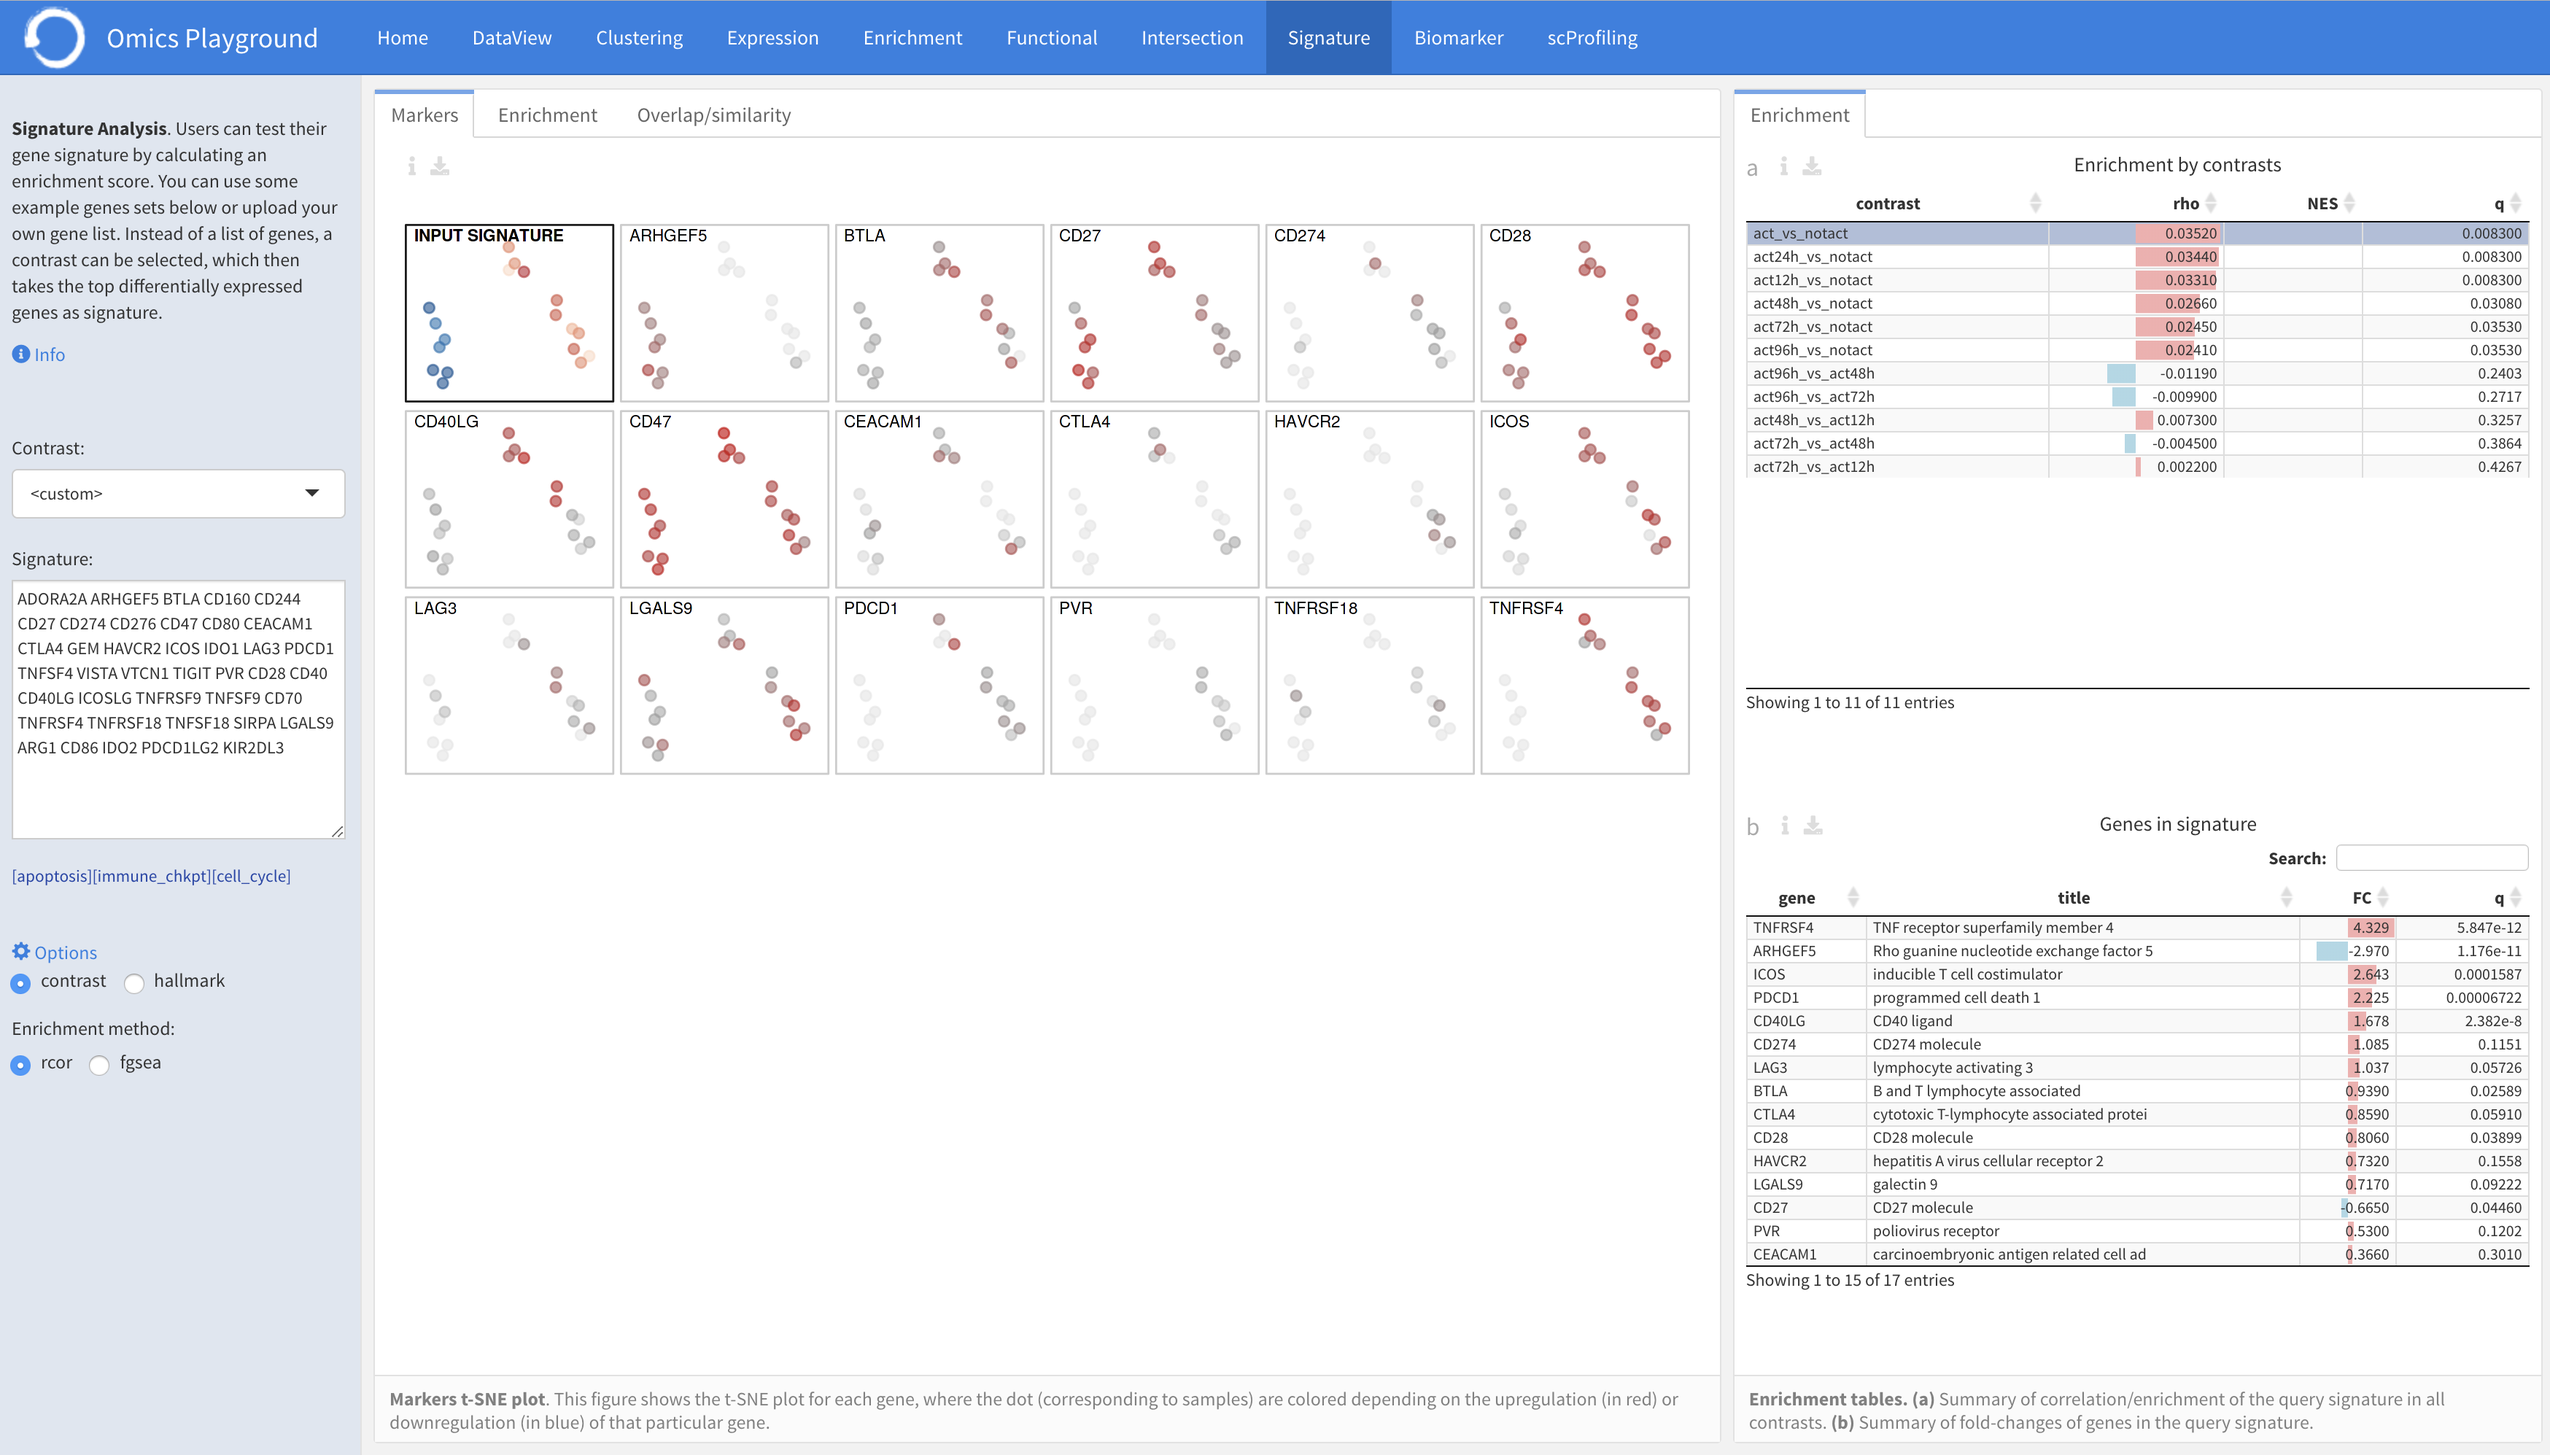
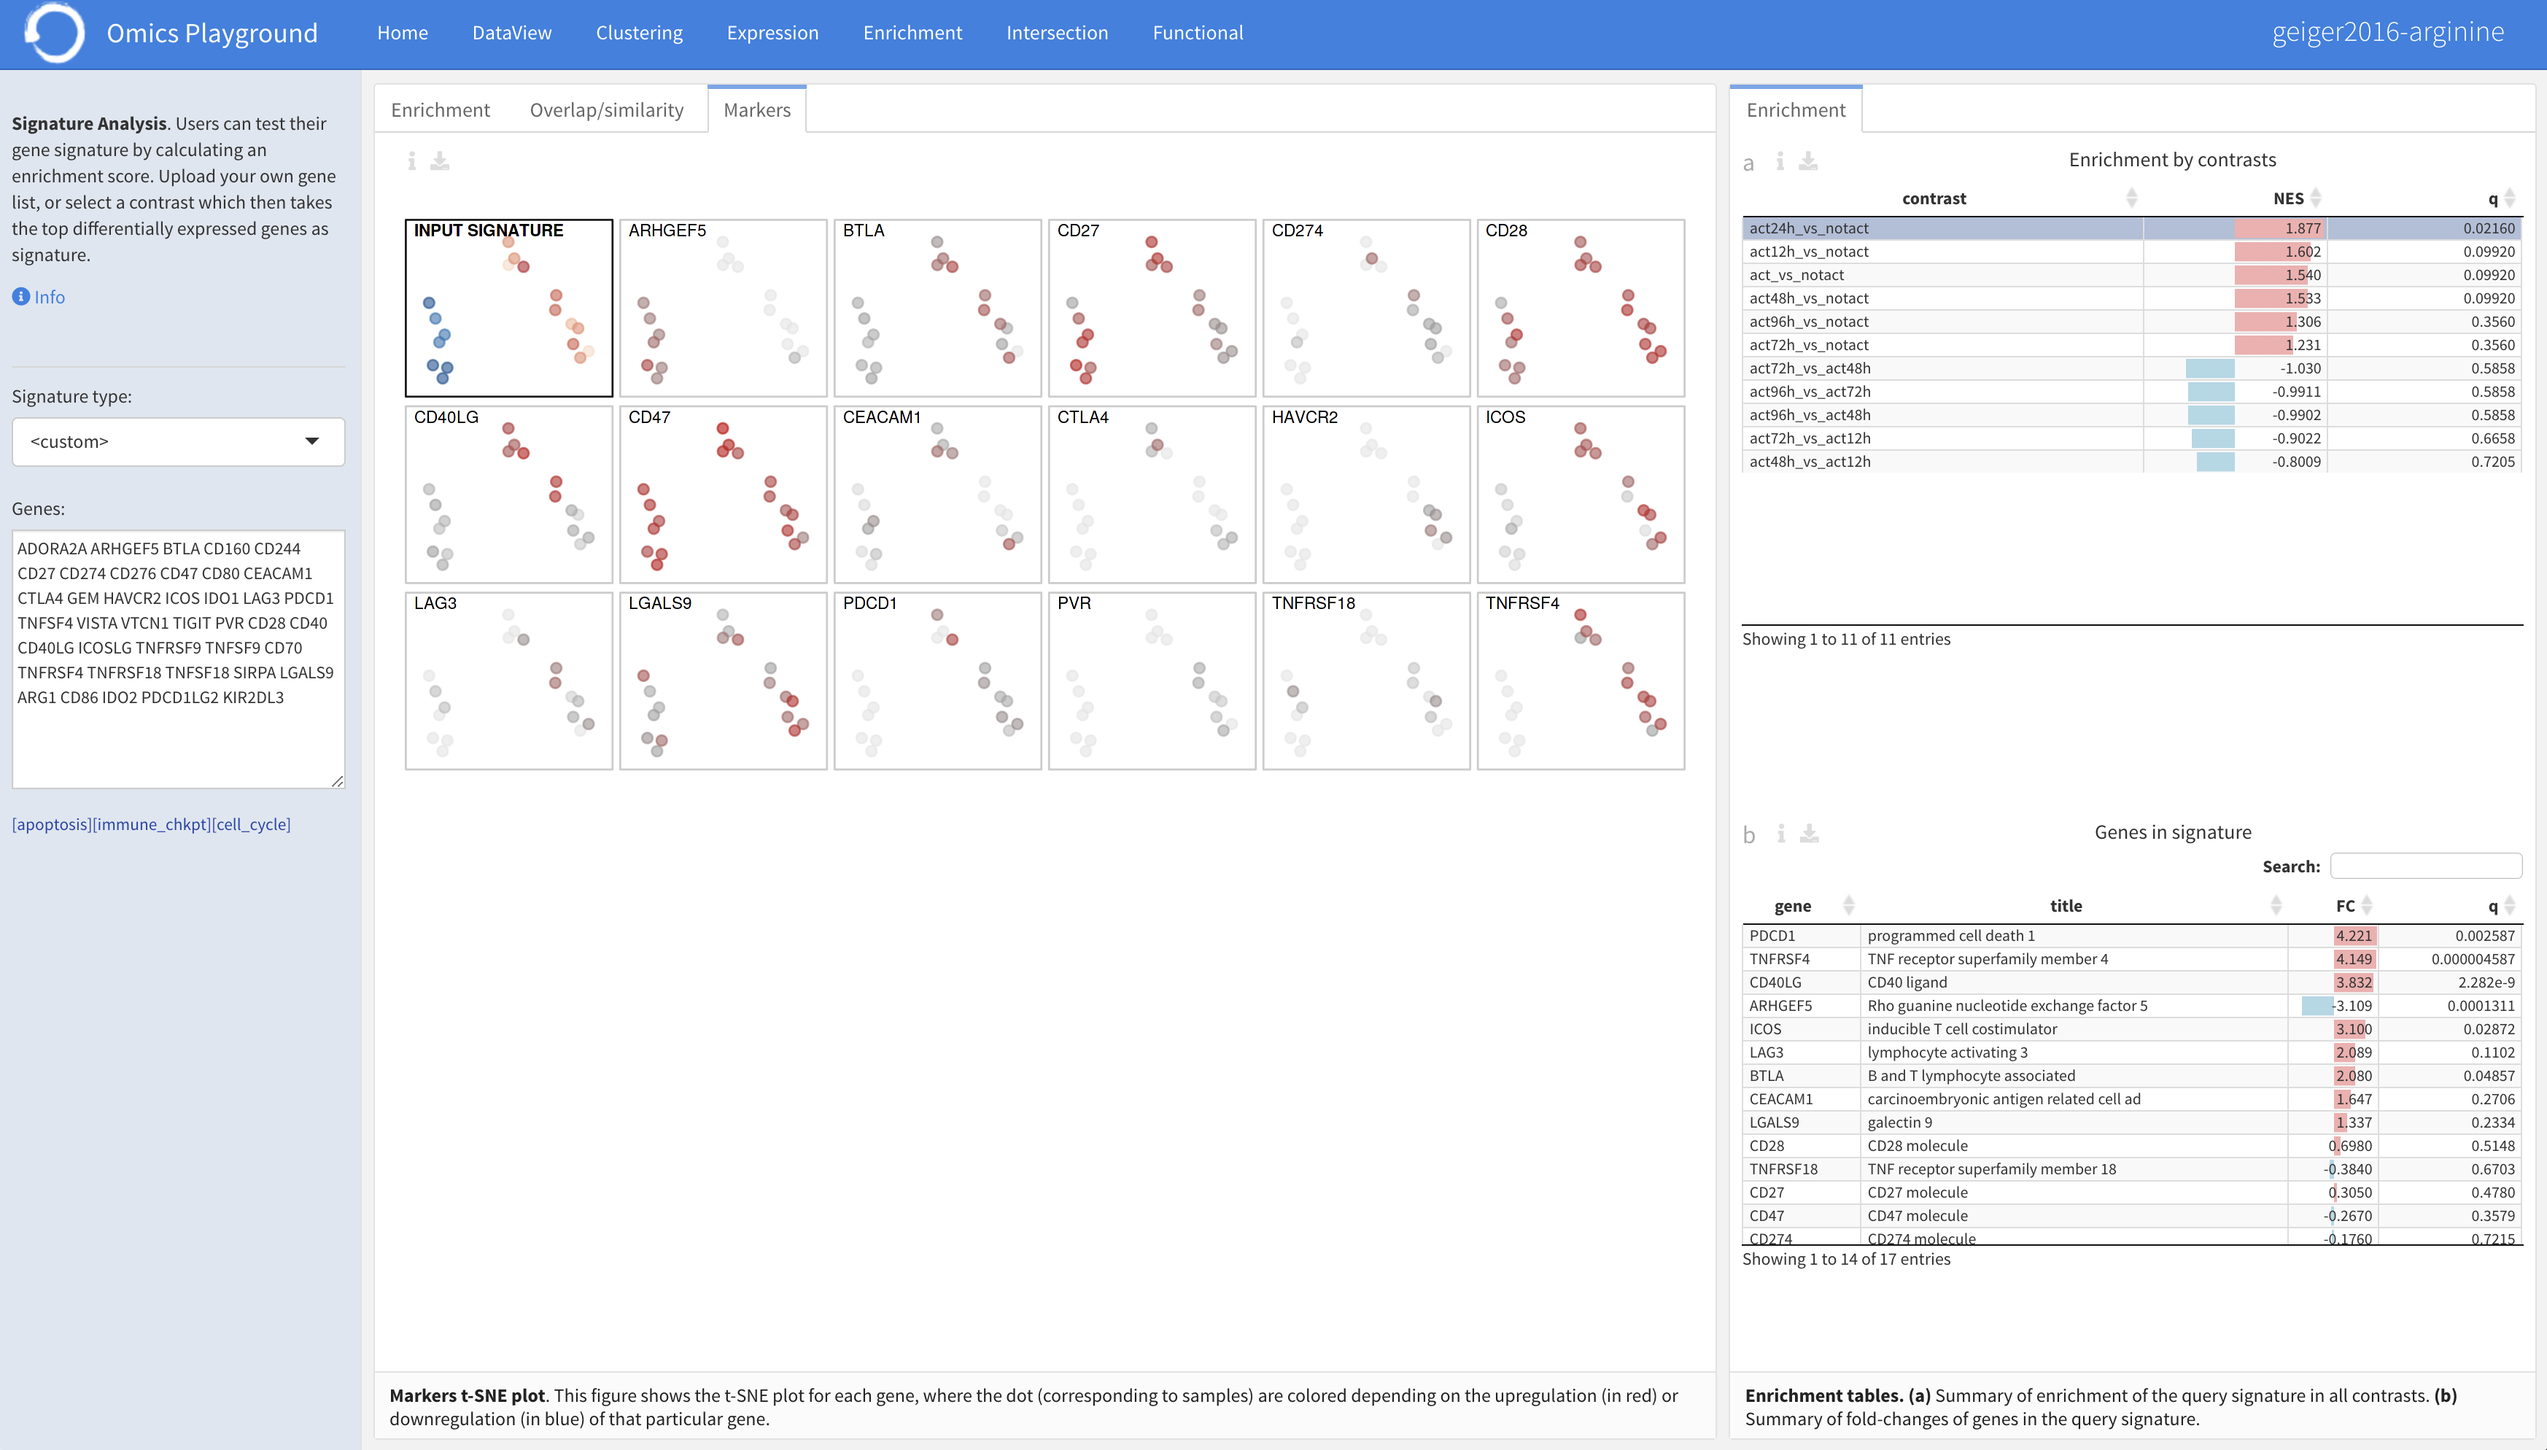
update docs:signature

diff --git a/docs/modules/mod7_Signature.rst b/docs/modules/mod7_Signature.rst
@@ -2,56 +2,48 @@
 
 Signature Analysis
 ================================================================================
-In the **Signature Analysis** module, users can test their gene signature by
-calculating an enrichment score. 
-
-After uploading a gene list, the **Markers** panel produces a t-SNE plot of 
-samples for each gene. The **Enrichment** panel performs the enrichment analysis
-of the gene list against all contrasts by running the GSEA algorithm and plots 
-enrichment outputs. Under the **Overlap/similarity** panel, users can find the 
-similarity of their gene list with all the gene sets and pathways in the platform.
 
 .. note::
 
-    This module is supported in the EXPERT MODE ONLY.
+    This module is supported in the EXPERT MODE only.
+
+In the **Signature Analysis** module, users can test their custom gene
+signature by uploading a custom list of genes. After uploading the
+gene list, the **Enrichment** panel performs the enrichment analysis
+of the gene list against all contrasts by running the GSEA algorithm
+and plots enrichment outputs. Under the **Overlap/similarity** panel,
+users can find the similarity of their gene list with other gene sets
+and pathways in the platform. The **Markers** panel produces a t-SNE
+plot of samples for each gene.
+
 
 
 Input panel
 --------------------------------------------------------------------------------
-Users need to specify the contrasts of their interest to start the analysis in 
-the ``Contrast`` settings. They can use a sample list provided on the platform
-or upload their own gene list. Instead of a short list, a contrast profile can 
-also be selected, which is a complete gene list resulted from one of the contrasts
-in the analysis.
-Under the main *Options*, users can set the ``Enrichment method``, where
-``rcor`` performs a correlation based computation while ``fgsea`` runs the
-fast implementation of `GSEA <https://www.biorxiv.org/content/10.1101/060012v1.full>`__ 
-algorithm.
+To start the analysis, users need to specify the type of signature of
+their interest in the ``Signature type`` settings. You can choose
+between custom signature, a contrast profile, or some predefined gene
+sets (Hallmark and KEGG pathways). For the custom signature, users can
+upload their own gene list or use one of the example gene lists
+provided. Instead, a contrast profile can also be selected, which
+takes the top 100 most differentially expressed genes as the
+signature.
 
 .. figure:: figures/psc8.0.png
     :align: center
     :width: 30%
 
 
-Markers
---------------------------------------------------------------------------------
-After uploading a gene list, the **Markers** panel produces a t-SNE plot of 
-samples for each gene, where the samples are colored with respect to the 
-upregulation (in red) or downregulation (in blue) of that particular gene.
-
-.. figure:: figures/psc8.1.png
-    :align: center
-    :width: 100%
-
-
 Enrichment
 --------------------------------------------------------------------------------
-The **Enrichment** panel performs the enrichment analysis of the gene list 
-against all contrasts by computing a correlation based enrichment or running the
-`GSEA <https://www.biorxiv.org/content/10.1101/060012v1.full>`__ 
-algorithm and plots enrichment outputs. Under the plot *Settings*, users can
-quickly check the enrichment of their gene list in other contrasts from 
-the relevant public datasets by setting the ``Test dataset``.
+After uploading a gene list, the **Enrichment** panel performs the
+enrichment analysis of the gene list against all contrasts by
+computing a correlation based enrichment or running the `GSEA
+<https://www.biorxiv.org/content/10.1101/060012v1.full>`__ algorithm
+and plots enrichment outputs. Under the plot *Settings*, users can
+quickly check the enrichment of their gene list in other contrasts
+from the relevant public datasets by selecting the ``Query
+dataset``.
 
 .. figure:: figures/psc8.2.0.png
     :align: center
@@ -97,4 +89,16 @@ to show, or users can select to hide/show the feature names in the plot.
     :align: center
     :width: 30%
 	   
+
+Markers
+--------------------------------------------------------------------------------
+The **Markers** panel produces a t-SNE plot of samples for each gene
+in the signature, where the samples are colored with respect to the
+upregulation (in red) or downregulation (in blue) of that particular
+gene. For space reasons, only the top most variable genes in the
+signature are given.
+
+.. figure:: figures/psc8.1.png
+    :align: center
+    :width: 100%
 
